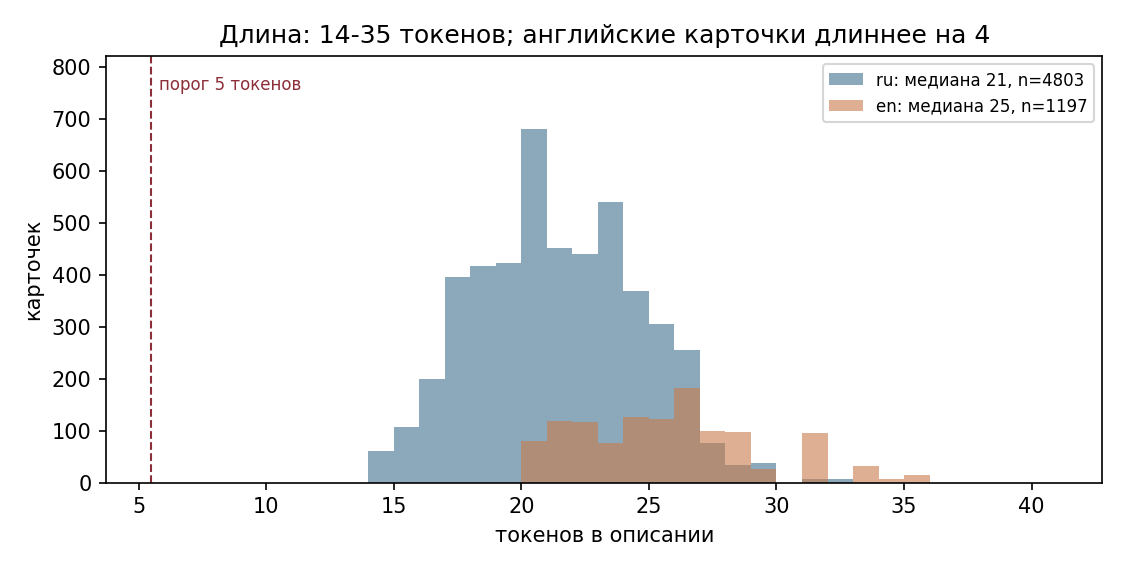
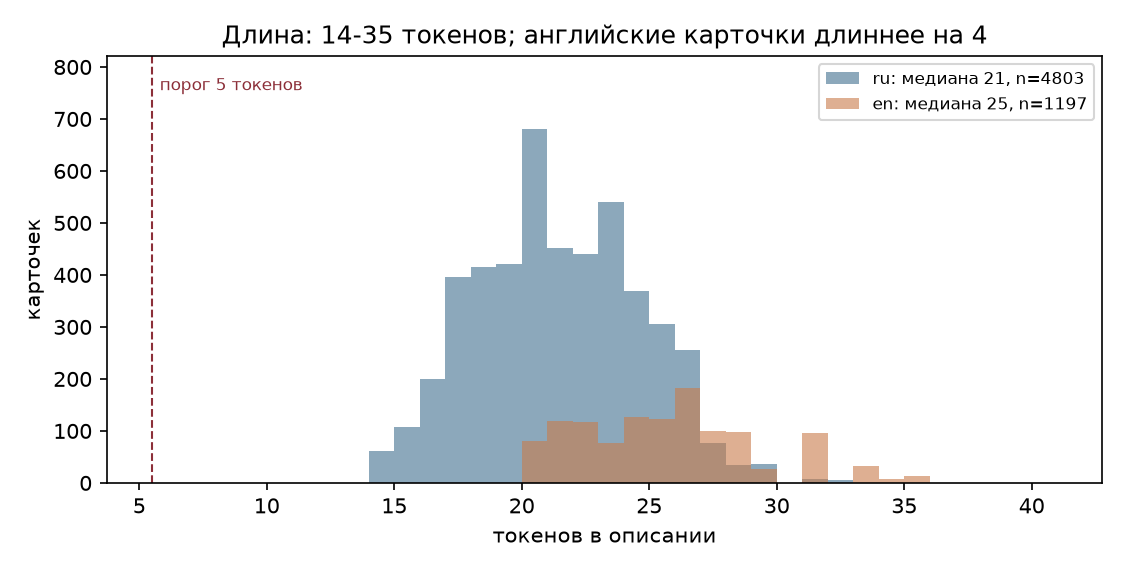
chore(lab5): исправить числа от версии 1.0 в ноутбуке и разборе
Разбор и ноутбук ссылаются на одну и ту же работу, поэтому числа должны совпадать и с набором 1.1. Исправлено:

- доли P1 по выборкам: было 7,1 / 4,4 / 8,9 %, теперь 4,2 / 8,0 / 14,2 %, и объяснение механизма: критичность выводится из последствия, последствия привязаны к сценариям, сценарии разведены по выборкам группами;
- языки: 4 803 русских и 1 197 английских карточек вместо 4 778 и 1 222;
- перенос словаря validation: 57,5 % вместо 57,7 %;
- «три сценария network» заменено на два: их действительно два, TRN-01 и TRN-04;
- решение проверки события приведено к формулировке скрипта и CSV: метка сверена с таблицей IMPACT_SEVERITY;
- в разборе добавлена строка о том, что формулировки таблицы сокращены, а числа взяты из CSV.

Графики перерисованы тем же прогоном EDA: закоммиченные до этого файлы были собраны на другом состоянии данных.

diff --git a/docs/lab5/quality_review.md b/docs/lab5/quality_review.md
@@ -7,6 +7,7 @@
 Таблица получена командой `python src/eda_incidents.py` и сохранена в
 [`quality_checks.csv`](quality_checks.csv). Тот же код вызывается из ноутбука
 [`lab5_incident_eda.ipynb`](../../notebooks/lab5_incident_eda.ipynb), поэтому цифры совпадают.
+Формулировки в таблице сокращены для чтения, числа и статусы взяты из CSV без изменений.
 
 ## Таблица проверок
 
@@ -23,7 +24,7 @@
 | Пересечение групп между выборками | 0 нарушений | групповой split подтверждён: сценарий, событие и текст не пересекаются | ок |
 | Каскады в одной выборке | 4 пары, 12 событий, разъехавшихся пар: 0 | каскад нельзя разделять: карточки описывают одно происшествие | ок |
 | Покрытие меток по выборкам | train: сервисов 7, причин 6; validation: сервисов 7, причин 5; test: сервисов 7, причин 6; нет `network` в validation | по категории, которой нет в выборке, метрика не считается; вывод по ней на кросс-валидации train | внимание |
-| Согласованность события | 4 097 событий, карточек в событии 1–5, расхождений `severity` с последствием: 0, событий с разным масштабом влияния: 430, сервисов больше двух: 0, разброс времени больше 30 мин: 0, нечитаемых дат: 0 | критичность карточки выводится из её последствия; карточки события не независимы, оценка и бутстрэп считаются по событиям и сценариям | ок |
+| Согласованность события | 4 097 событий, карточек в событии 1–5, расхождений `severity` с последствием: 0, событий с разным масштабом влияния: 430, сервисов больше двух: 0, разброс времени больше 30 мин: 0, нечитаемых дат: 0 | критичность карточки сверена с классом последствия по таблице `IMPACT_SEVERITY`; карточки события не независимы, оценка и бутстрэп считаются по событиям и сценариям | ок |
 | Поддержка классов | `severity`: минимум 417 (7,0 %, P1); `service`: минимум 856 (14,3 %, ims); `root_cause`: минимум 430 (7,2 %, network); в validation нет `network` | F1-macro по всем классам, для P1 отдельно recall; отсутствующие в выборке классы и классы меньше 30 записей оцениваются по кросс-валидации train | внимание |
 | Повтор шаблонов текста | 750 шаблонов на 6 000 записей, серий: 738, они покрывают 5 988 записей (99,8 %), в разных выборках: 0, на несколько сценариев: 0 | `text_hash` ловит только точные копии, серии закрывает группировка по сценарию | внимание |
 | Перенос словаря train на другие выборки | validation: 57,5 % токенов, 0,0 % карточек с покрытием 80 %+; test: 58,9 % токенов, 0,0 % карточек с покрытием 80 %+ | общий словарь есть, формулировки новые: перенос ожидается, но не гарантирован, проверяется моделью в ЛР 6 | ок |
@@ -40,7 +41,7 @@
 Предупреждений четыре, причин три: отсутствие `network` в validation даёт две строки —
 покрытие меток и поддержка классов.
 
-`network` в validation. Три сценария с этой причиной разошлись между train и test, в validation
+`network` в validation. Два сценария с этой причиной разошлись между train и test, в validation
 её нет ни в одной карточке. Это известное ограничение разделения из лабораторной 4, а не
 дефект очистки. Практическое следствие: F1 по причине на validation считается по пяти
 категориям, а вывод по `network` делается на кросс-валидации train.
